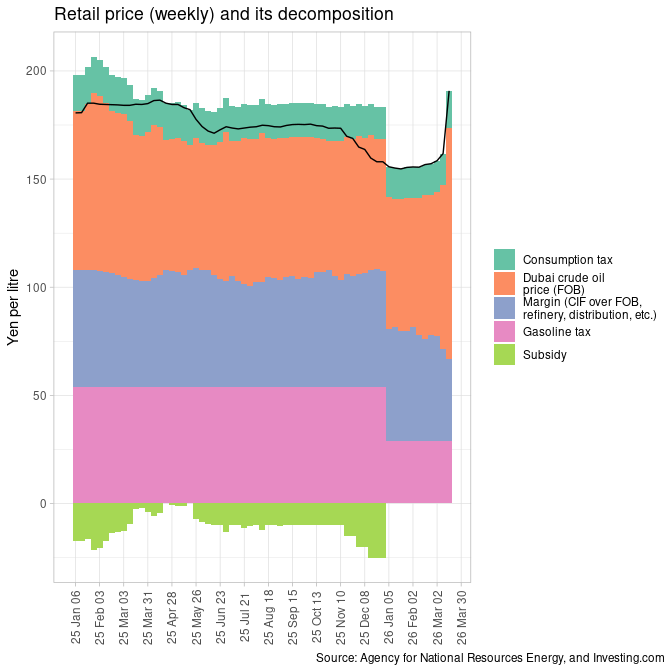
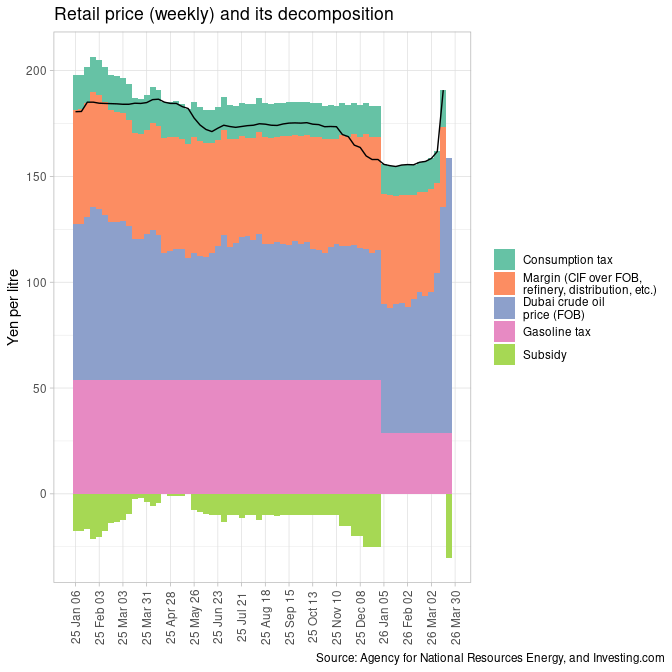
add most recent subsidy to weekly plot

diff --git a/README.md b/README.md
@@ -53,6 +53,7 @@ retail_weekly <- retail |>
   as_tsibble(index = week) |> 
   fill_gaps() |> 
   fill(retail_price, .direction = "down") |> 
+  append_row() |> 
   as_tibble()
 ```
 
@@ -576,7 +577,6 @@ combo_weekly <- combo_weekly |>
     subsidy = if_else(is.na(subsidy), 0, subsidy),
     margin = retail_price - consumption_tax - (dubai + gas_tax - subsidy)
   ) |> 
-  filter(!is.na(margin)) |> 
   mutate(week = as.Date(week))
 ```
 
@@ -587,8 +587,8 @@ combo_weekly |>
   mutate(subsidy = - subsidy) |> 
   pivot_longer(consumption_tax:margin) |> 
   mutate(name = factor(name,
-                       levels = c("consumption_tax", "dubai", "margin", "gas_tax", "subsidy"),
-                       labels = c("Consumption tax", "Dubai crude oil\nprice (FOB)", "Margin (CIF over FOB,\nrefinery, distribution, etc.)", "Gasoline tax", "Subsidy"))) |> 
+                       levels = c("consumption_tax", "margin","dubai",  "gas_tax", "subsidy"),
+                       labels = c("Consumption tax", "Margin (CIF over FOB,\nrefinery, distribution, etc.)", "Dubai crude oil\nprice (FOB)", "Gasoline tax", "Subsidy"))) |> 
   filter(year(week) > 2024) |> 
   ggplot(aes(week, value)) +
   geom_col(aes(fill = name), width = 7) +
@@ -603,6 +603,12 @@ combo_weekly |>
         panel.grid.minor.x = element_blank(),
         plot.caption.position = "plot")
 ```
+
+    Warning: Removed 2 rows containing missing values or values outside the scale range
+    (`geom_col()`).
+
+    Warning: Removed 1 row containing missing values or values outside the scale range
+    (`geom_line()`).
 
 ![Retail price
 (weekly)](README_files/figure-commonmark/plot_weekly-1.png)
